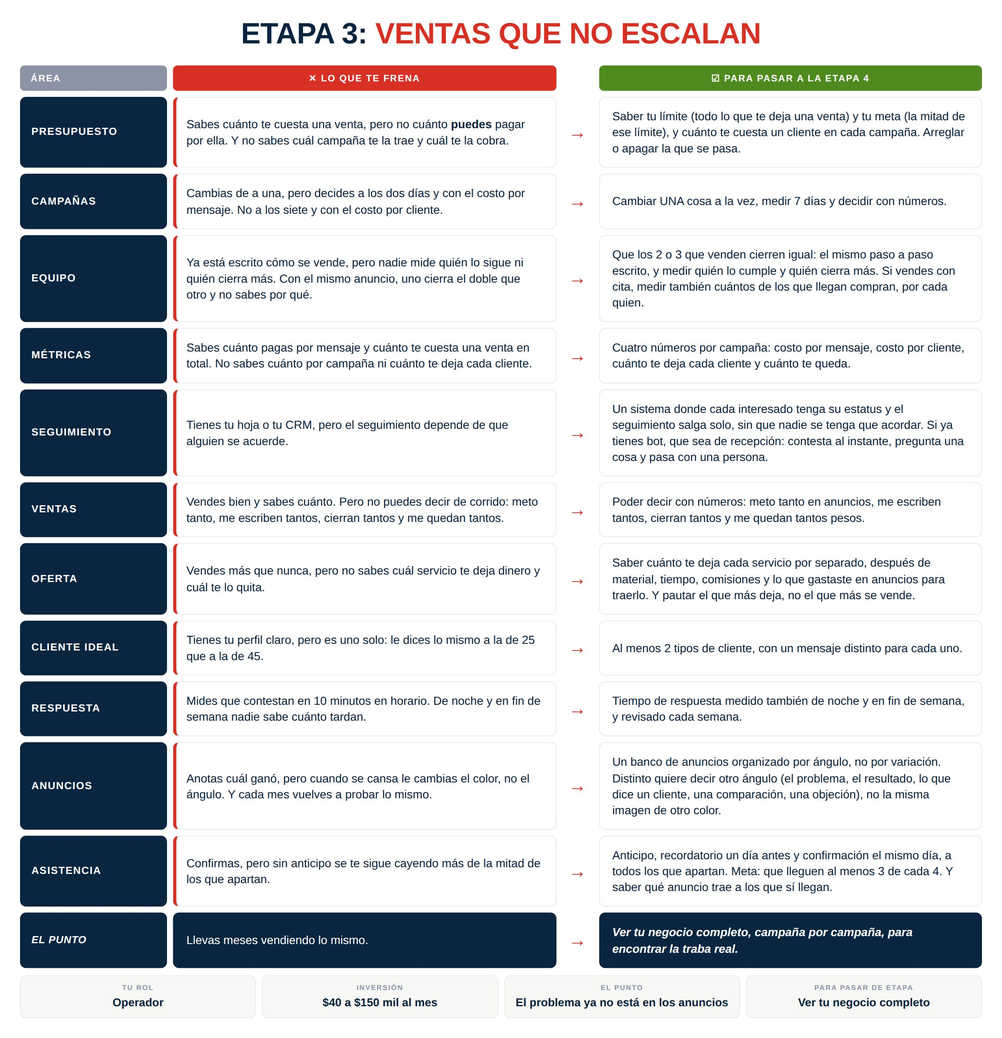
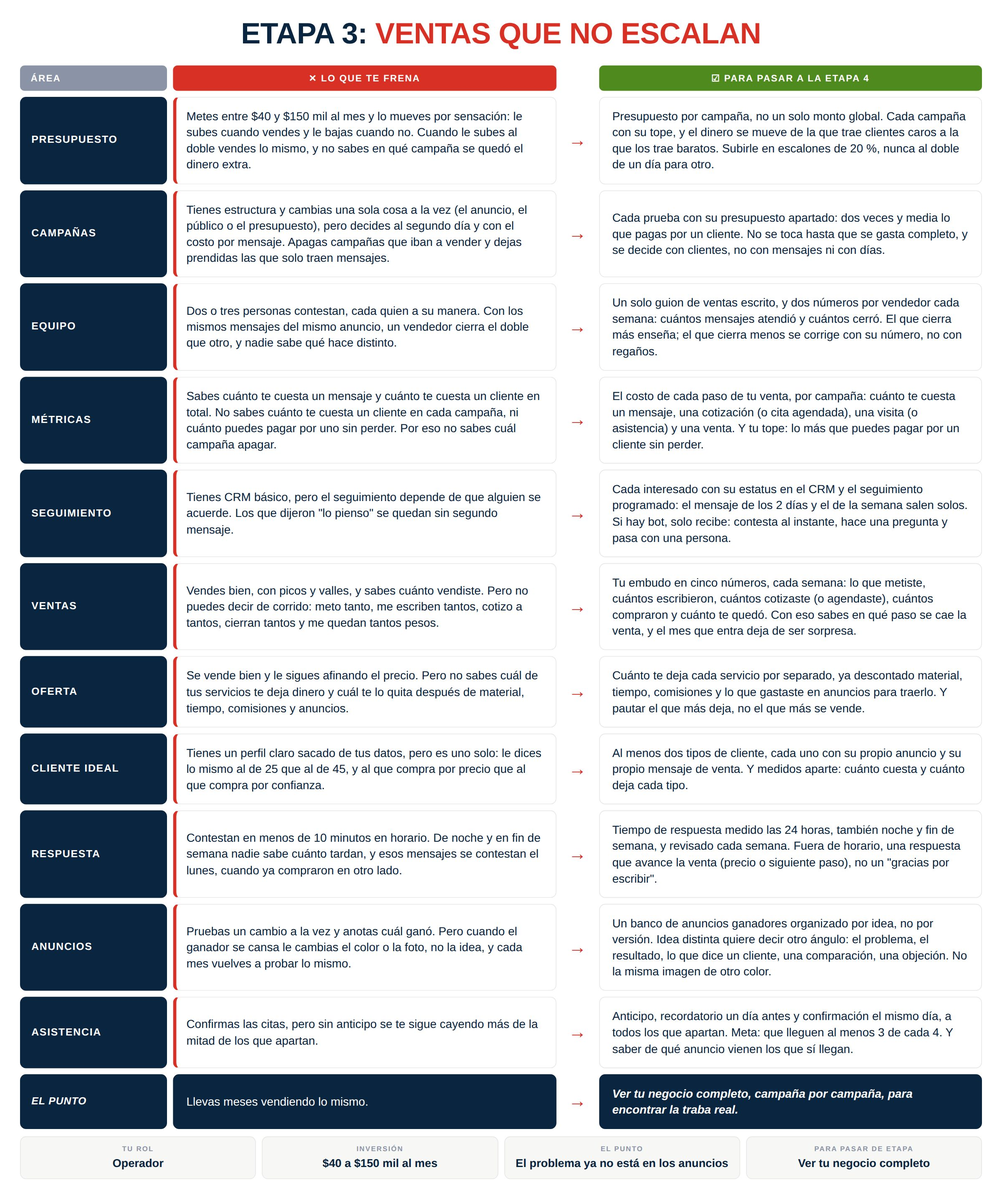
Build 7.5: tabla E3 reescrita, checklist E3, guia CAC en Metricas, tabla E4, lightbox escritorio

diff --git a/index.html b/index.html
@@ -602,6 +602,7 @@ body.has-bar{padding-bottom:74px}
 .mapa-scroll img.big{width:220%}
 .mapa-tip{margin:0;padding:52px 60px 6px 12px;color:#fff;font-size:13px;font-weight:700}
 .mapa-scroll{padding-top:0!important}
+@media (min-width:900px){.mapa-scroll{cursor:grab}.mapa-scroll.drag{cursor:grabbing}.mapa-scroll img{width:auto;max-width:100%;max-height:calc(100vh - 56px);margin:0 auto;cursor:zoom-in}.mapa-scroll img.big{width:100%;max-width:2400px;max-height:none;cursor:zoom-out}}
 #engrane-root .u-ofhook{margin:4px 0 0;font-size:15px;font-style:italic;color:var(--navy);line-height:1.45}
 #engrane-root .it .ej{margin-top:6px;font-size:13px;line-height:1.45;color:#5b6675}
 #engrane-root .it .ej b{color:var(--navy)}
@@ -909,7 +910,7 @@ const TABLE = [
 /* ---------- Tabla Hormozi 11 áreas · Etapa 3 (frena / para pasar) ---------- */
 const HZ = [
  ["Presupuesto","Inviertes sin saber qué porcentaje regresa como cliente.","Conocer tu costo por cliente real, no por lead."],
- ["Campañas","Cambias cosas sin un proceso claro de prueba.","Cambiar UNA variable, medir 7 días, decidir con datos."],
+ ["Campañas","Cambias cosas sin un proceso claro de prueba.","Cada prueba con su presupuesto apartado; se decide con clientes, no con días."],
  ["Equipo","Cada quien vende a su manera. Depende de quién conteste.","Que los 2-3 cierren igual: un guion que todos siguen y se mide quién lo cumple."],
  ["Métricas","Sabes cuánto pagas por mensaje pero no cuánto te cuesta cada paciente que paga.","4 números: costo por mensaje, por paciente, valor por paciente, margen."],
  ["Automatización","Ya tienes un CRM básico, pero el seguimiento es manual: depende de que alguien se acuerde.","Un CRM que trabaje solo: estatus por lead y seguimiento automático que nadie tenga que empujar a mano."],
@@ -1766,11 +1767,11 @@ const TEETH=[
   why:'Una clínica real: el mensaje le costaba <b>$15</b> y se veía barato. El cliente que COMPRÓ le costó <b>$711, 47 veces más</b>. Si solo ves el costo por mensaje, crees que vas bien mientras pierdes dinero entre cada paso.',
   hoy:'Divide lo que invertiste el mes pasado entre los clientes nuevos que SÍ pagaron. Ese es tu CAC real. Si no tienes ese número, ahí está tu primer problema.',
   why34:'Tu CAC global (lo que invertiste entre los clientes que te pagaron) seguro ya lo conoces, o lo sacas en 2 minutos. El problema: <b>ese número ya no te sirve para decidir</b>. Te dice si ganas o pierdes en total, pero no qué apagar ni qué escalar. El anuncio con el mensaje más barato puede estar dándote los clientes más caros. Abajo lo ves con números. Viendo solo el global, le metes dinero al equivocado sin enterarte. El juego en tu etapa es CAC <b>por campaña → por conjunto (los grupos de anuncios dentro de cada campaña) → por anuncio</b>.',
-  hoy34:'Ponle una clave a cada anuncio (AZUL, ROJO…) en el mensaje que se abre en WhatsApp cuando lo pican. Tu equipo apunta por chat: fecha · clave · ¿compró? El día 7 divides, y sabes qué anuncio te trae clientes de verdad.',
-  pasos34:['Cuando alguien pica tu anuncio, se le abre WhatsApp con un <b>mensaje ya escrito</b> (el clásico "Hola, me interesa…"). Ese mensaje lo decides TÚ al crear el anuncio. Ponle una <b>clave distinta a cada anuncio</b>:<div class="wa-mock"><div class="wa-b">Hola, me interesa 😊 <mark>(AZUL)</mark></div><div class="wa-b">Hola, me interesa 😊 <mark>(ROJO)</mark></div><div class="wa-cap">Así te llega el chat: la clave viaja sola, sin que el cliente haga nada.</div></div><div class="tell-box">¿Alguien más te maneja las campañas? Mándale esto tal cual: <i>"Cámbiame el mensaje de bienvenida de cada anuncio para que traiga una clave distinta entre paréntesis: (AZUL), (ROJO)…"</i></div>','Tu equipo apunta 3 cosas de cada chat que llegue, en papel o en Excel, da igual:<table class="reg-mock"><tr><th>Fecha</th><th>Clave</th><th>¿Compró?</th></tr><tr><td>3 jul</td><td>AZUL</td><td>❌</td></tr><tr><td>3 jul</td><td>ROJO</td><td>✅</td></tr><tr><td>4 jul</td><td>ROJO</td><td>✅</td></tr></table>','A los 7 días, haz una cuenta por cada clave: <b>lo que gastaste en ese anuncio ÷ sus compradores</b>. Ejemplo: gastaste $1,500 en ROJO y te compraron 5 → cada cliente de ROJO te costó <b>$300</b>. Ese es tu CAC por anuncio.'],
+  hoy34:'Ponle una clave a cada anuncio (AZUL, ROJO…) en el mensaje que se abre en WhatsApp cuando lo pican. Tu equipo apunta por chat: fecha · clave · ¿compró? Cuando cada anuncio haya gastado lo de una prueba completa (dos veces y media lo que puedes pagar por un cliente), divides, y sabes qué anuncio te trae clientes de verdad.',
+  pasos34:['Cuando alguien pica tu anuncio, se le abre WhatsApp con un <b>mensaje ya escrito</b> (el clásico "Hola, me interesa…"). Ese mensaje lo decides TÚ al crear el anuncio. Ponle una <b>clave distinta a cada anuncio</b>:<div class="wa-mock"><div class="wa-b">Hola, me interesa 😊 <mark>(AZUL)</mark></div><div class="wa-b">Hola, me interesa 😊 <mark>(ROJO)</mark></div><div class="wa-cap">Así te llega el chat: la clave viaja sola, sin que el cliente haga nada.</div></div><div class="tell-box">¿Alguien más te maneja las campañas? Mándale esto tal cual: <i>"Cámbiame el mensaje de bienvenida de cada anuncio para que traiga una clave distinta entre paréntesis: (AZUL), (ROJO)…"</i></div>','Tu equipo apunta 3 cosas de cada chat que llegue, en papel o en Excel, da igual:<table class="reg-mock"><tr><th>Fecha</th><th>Clave</th><th>¿Compró?</th></tr><tr><td>3 jul</td><td>AZUL</td><td>❌</td></tr><tr><td>3 jul</td><td>ROJO</td><td>✅</td></tr><tr><td>4 jul</td><td>ROJO</td><td>✅</td></tr></table>','Cuando cada anuncio haya gastado lo de una prueba completa (dos veces y media lo que puedes pagar por un cliente), haz una cuenta por cada clave: <b>lo que gastaste en ese anuncio ÷ sus compradores</b>. Ejemplo: gastaste $1,500 en ROJO y te compraron 5 → cada cliente de ROJO te costó <b>$300</b>. Ese es tu CAC por anuncio.'],
   reto34:'Haz la cuenta con dos anuncios y compáralos. Te apuesto que hay una diferencia que no esperabas.',
-  hoyPasos:['Suma lo que gastaste en anuncios el mes pasado.','Cuenta los clientes nuevos que SÍ pagaron ese mes. No mensajes, no citas: los que pagaron.','Divide. Ese es tu costo por cliente de hoy.','Compáralo con lo que te deja un cliente después de costos. Si el costo por cliente se come más de la mitad de lo que te deja, ahí está tu freno, no en los anuncios.','Para la semana que entra: ponle una clave a cada anuncio en el mensaje que abre WhatsApp (AZUL, ROJO). Tu equipo apunta fecha, clave y si compró. El día 7 divides por anuncio.'],
-  cl:{def:'CAC significa <b>Costo de Adquisición de Cliente</b>: cuánto dinero te cuesta conseguir UNA paciente que paga. No un mensaje, no una cita agendada, una paciente que llegó y pagó.',why:'Una clínica real: el mensaje le costaba <b>$15</b> y se veía barato. La paciente que PAGÓ le costó <b>$711, 47 veces más</b>. Si solo ves el costo por mensaje, crees que vas bien mientras pierdes dinero entre cada paso.',hoy:'Divide lo que invertiste el mes pasado entre las pacientes nuevas que SÍ pagaron. Ese es tu CAC real. Si no tienes ese número, ahí está tu primer problema.',hoyPasos:['Suma lo que gastaste en anuncios el mes pasado.','Cuenta las pacientes nuevas que SÍ pagaron ese mes. No mensajes, no citas agendadas: las que llegaron y pagaron.','Divide. Ese es tu costo por paciente de hoy.','Compáralo con lo que te deja una paciente después de insumos y cabina. Si el costo por paciente se come más de la mitad de lo que te deja, ahí está tu freno, no en los anuncios.','Para la semana que entra: ponle una clave a cada anuncio en el mensaje que abre WhatsApp (AZUL, ROJO). Tu recepción apunta fecha, clave y si agendó y llegó. El día 7 divides por anuncio.'],ofWin:'Saber, campaña por campaña, cuáles te traen pacientes a un costo que te deja dinero y cuáles te lo cobran. Con eso apagas la que se pasa y le subes a la que aguanta, con números, no con feeling. No te prometo un número: depende de tu margen y de tu zona.'},ofName:'Cuánto puedes pagar por un cliente (tu CAC máximo)',ofPrice:50,
+  hoyPasos:['Suma lo que gastaste en anuncios el mes pasado.','Cuenta los clientes nuevos que SÍ pagaron ese mes. No mensajes, no citas: los que pagaron.','Divide. Ese es tu costo por cliente de hoy.','Compáralo con lo que te deja un cliente después de costos. Si el costo por cliente se come más de la mitad de lo que te deja, ahí está tu freno, no en los anuncios.','Para la semana que entra: ponle una clave a cada anuncio en el mensaje que abre WhatsApp (AZUL, ROJO). Tu equipo apunta fecha, clave y si compró. Cuando cada anuncio haya gastado lo de una prueba completa (dos veces y media lo que puedes pagar por un cliente), divides por anuncio.'],
+  cl:{def:'CAC significa <b>Costo de Adquisición de Cliente</b>: cuánto dinero te cuesta conseguir UNA paciente que paga. No un mensaje, no una cita agendada, una paciente que llegó y pagó.',why:'Una clínica real: el mensaje le costaba <b>$15</b> y se veía barato. La paciente que PAGÓ le costó <b>$711, 47 veces más</b>. Si solo ves el costo por mensaje, crees que vas bien mientras pierdes dinero entre cada paso.',hoy:'Divide lo que invertiste el mes pasado entre las pacientes nuevas que SÍ pagaron. Ese es tu CAC real. Si no tienes ese número, ahí está tu primer problema.',hoyPasos:['Suma lo que gastaste en anuncios el mes pasado.','Cuenta las pacientes nuevas que SÍ pagaron ese mes. No mensajes, no citas agendadas: las que llegaron y pagaron.','Divide. Ese es tu costo por paciente de hoy.','Compáralo con lo que te deja una paciente después de insumos y cabina. Si el costo por paciente se come más de la mitad de lo que te deja, ahí está tu freno, no en los anuncios.','Para la semana que entra: ponle una clave a cada anuncio en el mensaje que abre WhatsApp (AZUL, ROJO). Tu recepción apunta fecha, clave y si agendó y llegó. Cuando cada anuncio haya gastado lo de una prueba completa (dos veces y media lo que puedes pagar por una paciente nueva), divides por anuncio.'],ofWin:'Saber, campaña por campaña, cuáles te traen pacientes a un costo que te deja dinero y cuáles te lo cobran. Con eso apagas la que se pasa y le subes a la que aguanta, con números, no con feeling. No te prometo un número: depende de tu margen y de tu zona.'},ofName:'Cuánto puedes pagar por un cliente (tu CAC máximo)',ofPrice:50,
   ofHook:'Subirle al presupuesto sin saber cuánto puedes pagar por cliente es apostar. Este número te dice cuándo subirle y cuándo apagar.',
   ofWin:'Saber, campaña por campaña, cuáles te traen clientes a un costo que te deja dinero y cuáles te lo cobran. Con eso apagas la que se pasa y le subes a la que aguanta, con números, no con feeling. No te prometo un número: depende de tu margen y de tu mercado.',
   ofFor:'Es para ti si ya inviertes fuerte y llevas meses vendiendo lo mismo. No es para ti si todavía no sabes cuánto te cuesta una venta en total.',
@@ -2115,18 +2116,19 @@ const CHK2=[
  {area:'Asistencia',text:'Recordatorio un día antes y confirmación el mismo día, a todos los que apartan.',ej:'Ayer: "Te espero mañana a las 4, ¿confirmas?". Hoy en la mañana: "Nos vemos hoy a las 4". A todos, no solo a los que te acuerdas.',na:true,cl:{text:'Recordatorio un día antes y confirmación el mismo día, a todas las que agendan.',ej:'Ayer: "Te espero mañana a las 4, ¿confirmas?". Hoy en la mañana: "Nos vemos hoy a las 4". A todas, no solo a las que te acuerdas.'}}
 ];
 const CHK3=[
- {area:'Presupuesto',text:'Saber tu límite (todo lo que te deja una venta) y tu meta (la mitad de ese límite), y cuánto te cuesta un cliente en cada campaña. Arreglar o apagar la que se pasa.',ej:'Un cliente te deja $2,000 limpios: ése es tu límite, arriba de ahí pierdes. Tu meta es la mitad, $1,000. La campaña A te trae clientes a $450 y la B a $1,400: la A va de sobra, la B ya pasó tu meta y se acerca al límite. La B se arregla o se apaga, aunque traiga muchos mensajes.',cl:{text:'Saber tu límite (todo lo que te deja un tratamiento) y tu meta (la mitad de ese límite), y cuánto te cuesta un paciente nuevo en cada campaña. Arreglar o apagar la que se pasa.',ej:'Un tratamiento te deja $2,000 limpios: ése es tu límite, arriba de ahí pierdes. Tu meta es la mitad, $1,000. La campaña A te trae pacientes a $450 y la B a $1,400: la A va de sobra, la B ya pasó tu meta y se acerca al límite. La B se arregla o se apaga, aunque traiga muchos mensajes.'}},
- {area:'Campañas',text:'Cambiar UNA cosa a la vez, medir 7 días y decidir con números.',ej:'Esta semana solo cambias el presupuesto de una campaña. Nada más. El día 7 comparas clientes y costo por cliente contra la semana anterior. Si cambias tres cosas, no sabes cuál movió el resultado.',cl:{ej:'Esta semana solo cambias el presupuesto de una campaña. Nada más. El día 7 comparas pacientes nuevos y costo por paciente contra la semana anterior. Si cambias tres cosas, no sabes cuál movió el resultado.'}},
- {area:'Equipo',text:'Que los 2 o 3 que venden cierren igual: el mismo paso a paso escrito, y medir quién lo cumple y quién cierra más. Si vendes con cita, medir también cuántos de los que llegan compran, por cada quien.',ej:'De 50 interesados, Karla cerró 16 y Luis 6 con el mismo anuncio. Lees 5 chats de cada uno: Karla ofrece día y hora, Luis solo contesta la pregunta. Esa diferencia se vuelve regla para todos ese mismo día.',cl:{text:'Que las 2 o 3 que agendan cierren igual: el mismo paso a paso escrito, y medir quién lo cumple y quién agenda más. Y medir también cuántas de las que llegan a valoración se quedan, por cada quien.',ej:'De 50 interesadas, Karla agendó 16 y Luis 6 con el mismo anuncio. Lees 5 chats de cada uno: Karla ofrece día y hora, Luis solo contesta la pregunta. Esa diferencia se vuelve regla para todos ese mismo día.'}},
- {area:'Métricas',text:'Cuatro números por campaña: costo por mensaje, costo por cliente, cuánto te deja cada cliente y cuánto te queda.',ej:'Campaña A: mensaje $20, cliente $450, te deja $2,000, te quedan $1,550. Campaña B: mensaje $12, cliente $1,100, te deja $2,000, te quedan $900. La de mensajes baratos es la que menos te deja.',cl:{text:'Cuatro números por campaña: costo por mensaje, costo por paciente nuevo, cuánto te deja cada paciente y cuánto te queda.',ej:'Campaña A: mensaje $20, paciente $450, te deja $2,000, te quedan $1,550. Campaña B: mensaje $12, paciente $1,100, te deja $2,000, te quedan $900. La de mensajes baratos es la que menos te deja.'}},
- {area:'Seguimiento',text:'Un sistema donde cada interesado tenga su estatus y el seguimiento salga solo, sin que nadie se tenga que acordar. Si ya tienes bot, que sea de recepción: contesta al instante, pregunta una cosa y pasa con una persona.',ej:'El que cotizó y no contestó recibe un mensaje al día siguiente, otro a los 3 días y otro a los 7, sin que tu equipo lo mande a mano. Y el bot no intenta vender solo: saluda, pregunta qué necesita y avisa en cuánto lo atienden.',cl:{text:'Un sistema donde cada interesada tenga su estatus y el seguimiento salga solo, sin que recepción se tenga que acordar. Si ya tienes bot, que sea de recepción: contesta al instante, pregunta una cosa y pasa con una persona.',ej:'La que cotizó y no contestó recibe un mensaje al día siguiente, otro a los 3 días y otro a los 7, sin que tu recepción lo mande a mano. Y el bot no intenta vender solo: saluda, pregunta qué le interesa y avisa en cuánto la atienden.'}},
- {area:'Ventas',text:'Poder decir con números: meto tanto en anuncios, me escriben tantos, cierran tantos y me quedan tantos pesos.',ej:'"Meto $60 mil, me escriben 400, cierran 40, me quedan $80 mil." Si puedes decir esa frase con tus números del mes pasado, ya no estás adivinando.',cl:{text:'Poder decir con números: meto tanto en anuncios, me escriben tantas, agendan tantas, llegan tantas y me quedan tantos pesos.',ej:'\"Meto $60 mil, me escriben 400, agendan 60, llegan 40, me quedan $80 mil.\" Si puedes decir esa frase con tus números del mes pasado, ya no estás adivinando.'}},
- {area:'Oferta',text:'Saber cuánto te deja cada servicio por separado, después de material, tiempo, comisiones y lo que gastaste en anuncios para traerlo. Y pautar el que más deja, no el que más se vende.',ej:'Tu servicio más vendido te deja $400 y el otro te deja $1,800. El presupuesto se está yendo al de $400 porque "es el que jala". Lo mueves al de $1,800: el mismo trabajo, el doble de utilidad.',cl:{text:'Saber cuánto te deja cada tratamiento por separado, después de insumos, tiempo de cabina, comisiones y lo que gastaste en anuncios para traerlo. Y pautar el que más deja, no el que más se agenda.',ej:'Tu tratamiento más pedido te deja $400 y el otro te deja $1,800. El presupuesto se está yendo al de $400 porque \"es el que jala\". Lo mueves al de $1,800: la misma cabina, el doble de utilidad.'}},
- {area:'Cliente ideal',text:'Al menos 2 tipos de cliente, con un mensaje distinto para cada uno.',ej:'A la mujer de 35 a 50 le hablas de tiempo y resultado. A la de 25 a 34 le hablas de precio y de pagos. Un anuncio para cada una, no uno para las dos.',cl:{text:'Al menos 2 tipos de paciente, con un mensaje distinto para cada una.',ej:'A la mujer de 35 a 50 le hablas de tiempo y resultado. A la de 25 a 34 le hablas de precio y de pagos. Un anuncio para cada una, no uno para las dos.'}},
- {area:'Respuesta',text:'Tiempo de respuesta medido también de noche y en fin de semana, y revisado cada semana.',ej:'Sacas tus últimos 20 interesados con hora de llegada y hora de respuesta. Los de horario: 8 minutos. Los de noche y fin de semana: 14 horas. Ese segundo número es el que te está costando.',cl:{ej:'Sacas tus últimas 20 interesadas con hora de llegada y hora de respuesta. Las de horario: 8 minutos. Las de noche y fin de semana: 14 horas. Ese segundo número es el que te está costando citas.'}},
- {area:'Anuncios',text:'Un banco de anuncios organizado por ángulo, no por variación. Distinto quiere decir otro ángulo (el problema, el resultado, lo que dice un cliente, una comparación, una objeción), no la misma imagen de otro color.',ej:'Una carpeta con tus mejores anuncios, cada uno con su costo por cliente y con el ángulo que usa. Cuando uno se cansa no le cambias el color: sacas el siguiente ángulo, que le habla a alguien que antes no te pelaba.',cl:{text:'Un banco de anuncios organizado por ángulo, no por variación. Distinto quiere decir otro ángulo (el problema, el resultado, lo que dice una paciente, una comparación, una objeción), no la misma imagen de otro color.',ej:'Una carpeta con tus mejores anuncios, cada uno con su costo por paciente nuevo y con el ángulo que usa. Cuando uno se cansa no le cambias el color: sacas el siguiente ángulo, que le habla a alguien que antes no te pelaba.'}},
- {area:'Asistencia',text:'Anticipo, recordatorio un día antes y confirmación el mismo día, a todos los que apartan. Meta: que lleguen al menos 3 de cada 4. Y saber qué anuncio trae a los que sí llegan.',ej:'De 20 que apartan con anticipo, llegan 16. Sin anticipo, llegaban 9. Y al cruzarlo con el anuncio: el de la promoción fuerte agenda mucho y llega poco; el que explica bien agenda menos y llega casi todo. A ese segundo le subes el presupuesto.',cl:{text:'Anticipo, recordatorio un día antes y confirmación el mismo día, a todas las que agendan. Meta: que lleguen al menos 3 de cada 4. Y saber qué anuncio trae a las que sí llegan.',ej:'De 20 que agendan con anticipo, llegan 16. Sin anticipo, llegaban 9. Y al cruzarlo con el anuncio: el de la promoción fuerte agenda mucho y llega poco; el que explica bien agenda menos y llega casi todo. A ese segundo le subes el presupuesto.'},na:true}
+ {area:"Presupuesto",text:"Presupuesto por campaña, no un solo monto global. Cada campaña con su tope, y el dinero se mueve de la que trae clientes caros a la que los trae baratos. Subirle en escalones de 20 %, nunca al doble de un día para otro.",ej:"Metes $60 mil al mes. Hoy es un solo número: el mes que vendiste bien le subiste a $90 mil y vendiste lo mismo. Con tope por campaña ves que la A traía clientes a $450 y la B a $1,400: el dinero extra se fue a la B. Le subes 20 % a la A, le bajas a la B, y con el mismo gasto salen más clientes.",cl:{text:"Presupuesto por campaña, no un solo monto global. Cada campaña con su tope, y el dinero se mueve de la que trae pacientes caras a la que las trae baratas. Subirle en escalones de 20 %, nunca al doble de un día para otro.",ej:"Metes $60 mil al mes. Hoy es un solo número: el mes que agendaste bien le subiste a $90 mil y agendaste lo mismo. Con tope por campaña ves que la A traía pacientes a $450 y la B a $1,400: el dinero extra se fue a la B. Le subes 20 % a la A, le bajas a la B, y con el mismo gasto llegan más pacientes."}},
+ {area:"Campañas",text:"Cada prueba con su presupuesto apartado: dos veces y media lo que pagas por un cliente. No se toca hasta que se gasta completo, y se decide con clientes, no con mensajes ni con días.",ej:"Un cliente te cuesta $1,000. La prueba de un anuncio nuevo son $2,500: ni un cambio hasta que los gaste. Si al gastarlos trajo 3 clientes o más, se queda y se le sube. Si trajo mensajes baratos y cero clientes, se apaga aunque el costo por mensaje se viera bonito.",cl:{text:"Cada prueba con su presupuesto apartado: dos veces y media lo que pagas por una paciente nueva. No se toca hasta que se gasta completo, y se decide con pacientes que llegaron, no con mensajes ni con días.",ej:"Una paciente nueva te cuesta $1,000. La prueba de un anuncio nuevo son $2,500: ni un cambio hasta que los gaste. Si al gastarlos trajo 3 pacientes o más, se queda y se le sube. Si trajo mensajes baratos y cero pacientes, se apaga aunque el costo por mensaje se viera bonito."}},
+ {area:"Equipo",text:"Un solo guion de ventas escrito, y dos números por vendedor cada semana: cuántos mensajes atendió y cuántos cerró. El que cierra más enseña; el que cierra menos se corrige con su número, no con regaños.",ej:"De 50 interesados, Karla cerró 16 y Luis 6 con el mismo anuncio. Lees 5 chats de cada uno: Karla ofrece día y hora, Luis solo contesta la pregunta. Esa diferencia se vuelve regla para todos ese mismo día.",cl:{text:"Un solo guion escrito para recepción, y dos números por persona cada semana: cuántos mensajes atendió y cuántas citas agendó que sí llegaron. La que agenda más enseña; la que agenda menos se corrige con su número, no con regaños.",ej:"De 50 interesadas, Karla agendó 16 y Luis 6 con el mismo anuncio. Lees 5 chats de cada uno: Karla ofrece día y hora, Luis solo contesta la pregunta. Esa diferencia se vuelve regla para todos ese mismo día."}},
+ {area:"Métricas",text:"El costo de cada paso de tu venta, por campaña: cuánto te cuesta un mensaje, una cotización (o cita agendada), una visita (o asistencia) y una venta. Y tu tope: lo más que puedes pagar por un cliente sin perder.",ej:"Un cliente te deja $2,000 limpios: ése es tu tope, arriba de ahí pierdes. Campaña A: mensaje $20, cotización $60, cliente $450. Campaña B: mensaje $12, cotización $40, cliente $1,400. La de mensajes baratos es la que se come tu tope. Y ya sabes en qué paso: en B cotizan igual, pero no cierran.",cl:{text:"El costo de cada paso, por campaña: cuánto te cuesta un mensaje, una cita agendada, una paciente que llega y una que paga. Y tu tope: lo más que puedes pagar por una paciente nueva sin perder.",ej:"Un tratamiento te deja $2,000 limpios: ése es tu tope, arriba de ahí pierdes. Campaña A: mensaje $20, cita $60, paciente que paga $450. Campaña B: mensaje $12, cita $40, paciente que paga $1,400. La de mensajes baratos es la que se come tu tope. Y ya sabes en qué paso: en B agendan igual, pero no llegan."}},
+ {area:"Seguimiento",text:"Cada interesado con su estatus en el CRM y el seguimiento programado: el mensaje de los 2 días y el de la semana salen solos. Si hay bot, solo recibe: contesta al instante, hace una pregunta y pasa con una persona.",ej:"El que cotizó y no contestó recibe un mensaje a los 2 días y otro a la semana, sin que tu equipo lo mande a mano. Y el bot no intenta vender solo: saluda, pregunta qué necesita y avisa en cuánto lo atienden.",cl:{text:"Cada interesada con su estatus en el CRM y el seguimiento programado: el mensaje de los 2 días y el de la semana salen solos. Si hay bot, solo recibe: contesta al instante, hace una pregunta y pasa con recepción.",ej:"La que pidió precio y no contestó recibe un mensaje a los 2 días y otro a la semana, sin que recepción lo mande a mano. Y el bot no intenta vender solo: saluda, pregunta qué le interesa y avisa en cuánto la atienden."}},
+ {area:"Ventas",text:"Tu embudo en cinco números, cada semana: lo que metiste, cuántos escribieron, cuántos cotizaste (o agendaste), cuántos compraron y cuánto te quedó. Con eso sabes en qué paso se cae la venta, y el mes que entra deja de ser sorpresa.",ej:"\"Meto $60 mil, me escriben 400, cotizo a 120, cierran 40, me quedan $80 mil.\" Si puedes decir esa frase con tus números de la semana pasada, ya sabes dónde se caen: de 400 a 120 es el primer brinco, de 120 a 40 el segundo.",cl:{text:"Tu embudo en cinco números, cada semana: lo que metiste, cuántas escribieron, cuántas agendaron, cuántas llegaron y cuánto te quedó. Con eso sabes en qué paso se cae la venta, y el mes que entra deja de ser sorpresa.",ej:"\"Meto $60 mil, me escriben 400, agendan 60, llegan 40, me quedan $80 mil.\" Si puedes decir esa frase con tus números de la semana pasada, ya sabes dónde se caen: de 400 a 60 es el primer brinco, de 60 a 40 el segundo."}},
+ {area:"Oferta",text:"Cuánto te deja cada servicio por separado, ya descontado material, tiempo, comisiones y lo que gastaste en anuncios para traerlo. Y pautar el que más deja, no el que más se vende.",ej:"Tu servicio más vendido te deja $400 y el otro te deja $1,800. El presupuesto se está yendo al de $400 porque \"es el que jala\". Lo mueves al de $1,800: el mismo trabajo, el doble de utilidad.",cl:{text:"Cuánto te deja cada tratamiento por separado, ya descontado insumos, tiempo de cabina, comisiones y lo que gastaste en anuncios para traerlo. Y pautar el que más deja, no el que más se agenda.",ej:"Tu tratamiento más pedido te deja $400 y el otro te deja $1,800. El presupuesto se está yendo al de $400 porque \"es el que jala\". Lo mueves al de $1,800: la misma cabina, el doble de utilidad."}},
+ {area:"Cliente ideal",text:"Al menos dos tipos de cliente, cada uno con su propio anuncio y su propio mensaje de venta. Y medidos aparte: cuánto cuesta y cuánto deja cada tipo.",ej:"A la mujer de 35 a 50 le hablas de tiempo y resultado. A la de 25 a 34 le hablas de precio y de pagos. Un anuncio para cada una, no uno para las dos. Y al mes sabes cuál de las dos te cuesta menos y te deja más.",cl:{text:"Al menos dos tipos de paciente, cada una con su propio anuncio y su propio mensaje. Y medidas aparte: cuánto cuesta y cuánto deja cada tipo.",ej:"A la mujer de 35 a 50 le hablas de tiempo y resultado. A la de 25 a 34 le hablas de precio y de pagos. Un anuncio para cada una, no uno para las dos. Y al mes sabes cuál de las dos te cuesta menos y te deja más."}},
+ {area:"Respuesta",text:"Tiempo de respuesta medido las 24 horas, también noche y fin de semana, y revisado cada semana. Fuera de horario, una respuesta que avance la venta (precio o siguiente paso), no un \"gracias por escribir\".",ej:"Sacas tus últimos 20 interesados con hora de llegada y hora de respuesta. Los de horario: 8 minutos. Los de noche y fin de semana: 14 horas. Ese segundo número es el que te está costando.",cl:{text:"Tiempo de respuesta medido las 24 horas, también noche y fin de semana, y revisado cada semana. Fuera de horario, una respuesta que avance la cita (precio o siguiente paso), no un \"gracias por escribir\".",ej:"Sacas tus últimas 20 interesadas con hora de llegada y hora de respuesta. Las de horario: 8 minutos. Las de noche y fin de semana: 14 horas. Ese segundo número es el que te está costando citas."}},
+ {area:"Anuncios",text:"Un banco de anuncios ganadores organizado por idea, no por versión. Idea distinta quiere decir otro ángulo: el problema, el resultado, lo que dice un cliente, una comparación, una objeción. No la misma imagen de otro color.",ej:"Una carpeta con tus mejores anuncios, cada uno con su costo por cliente y con el ángulo que usa. Cuando uno se cansa no le cambias el color: sacas el siguiente ángulo, que le habla a alguien que antes no te pelaba.",cl:{text:"Un banco de anuncios ganadores organizado por idea, no por versión. Idea distinta quiere decir otro ángulo: el problema, el resultado, lo que dice una paciente, una comparación, una objeción. No la misma imagen de otro color.",ej:"Una carpeta con tus mejores anuncios, cada uno con su costo por paciente nueva y con el ángulo que usa. Cuando uno se cansa no le cambias el color: sacas el siguiente ángulo, que le habla a alguien que antes no te pelaba."}},
+ {area:"Asistencia",text:"Anticipo, recordatorio un día antes y confirmación el mismo día, a todos los que apartan. Meta: que lleguen al menos 3 de cada 4. Y saber de qué anuncio vienen los que sí llegan.",ej:"De 20 que apartan con anticipo, llegan 16. Sin anticipo, llegaban 9. Y al cruzarlo con el anuncio: el de la promoción fuerte agenda mucho y llega poco; el que explica bien agenda menos y llega casi todo. A ese segundo le subes el presupuesto.",cl:{text:"Anticipo, recordatorio un día antes y confirmación el mismo día, a todas las que agendan. Meta: que lleguen al menos 3 de cada 4. Y saber de qué anuncio vienen las que sí llegan.",ej:"De 20 que agendan con anticipo, llegan 16. Sin anticipo, llegaban 9. Y al cruzarlo con el anuncio: el de la promoción fuerte agenda mucho y llega poco; el que explica bien agenda menos y llega casi todo. A ese segundo le subes el presupuesto."},na:true}
 ];
+
 const CHK_BY={1:CHK1,2:CHK2,3:CHK3};
 /* PRETICK[etapa][fila] = respuesta minima del quiz (0-3) que marca la fila como resuelta. null = nunca.
    Filas: Presupuesto, Campañas, Equipo, Metricas, Seguimiento, Ventas, Oferta, Cliente ideal, Respuesta, Anuncios.
@@ -2157,7 +2159,7 @@ function renderChecklist1(firstAny){
  let picked=pideLoad();
  const startIdx=[];
  if(firstAny && firstAny.l){
-  const START_AREA={'Cliente':'Cliente ideal','Venta mensual':'Ventas','CAC':'Presupuesto','Respuesta a leads':'Respuesta','Equipo de ventas':'Equipo','Oferta':'Oferta','Automatización':'Seguimiento','Generación de ads':'Anuncios','Creatividades':'Anuncios'};
+  const START_AREA={'Cliente':'Cliente ideal','Venta mensual':'Ventas','CAC':'Métricas','Respuesta a leads':'Respuesta','Equipo de ventas':'Equipo','Oferta':'Oferta','Automatización':'Seguimiento','Generación de ads':'Anuncios','Creatividades':'Anuncios'};
   const fl=firstAny.l.toLowerCase(), sa=START_AREA[firstAny.l];
   CHK().forEach((c,i)=>{ if(sa ? c.area===sa : fl.indexOf(c.area.toLowerCase().slice(0,5))>=0) startIdx.push(i); });
  }
@@ -2360,7 +2362,7 @@ function espPick(id){
 const GUIA_ETAPA={
  1:{nombre:function(){ return K()==='clinicas'?'tu paciente':'tu cliente'; }, filas:['Cliente ideal']},
  2:{nombre:function(){ return 'tu objetivo del mes'; }, filas:['Ventas']},
- 3:{nombre:function(){ return K()==='clinicas'?'cuánto te cuesta un paciente':'cuánto te cuesta un cliente'; }, filas:['Presupuesto','Métricas']}
+ 3:{nombre:function(){ return K()==='clinicas'?'cuánto te cuesta un paciente':'cuánto te cuesta un cliente'; }, filas:['Métricas']}
 };
 function espEcho(){
  const go=document.getElementById('espGo'); if(!go) return;
@@ -2687,7 +2689,7 @@ init();
 </script>
 <div id="mapaLb" class="mapa-lb" onclick="if(event.target===this)cerrarMapa()">
   <button class="mapa-x" onclick="cerrarMapa()">✕ Cerrar</button>
-  <p class="mapa-tip">Desliza con el dedo para recorrer la tabla. Un toque la hace chica o grande.</p>
+  <p class="mapa-tip" id="mapaTip">Desliza con el dedo para recorrer la tabla. Un toque la hace chica o grande.</p>
   <div class="mapa-scroll"><img id="mapaLbImg" alt="Tabla completa" onclick="this.classList.toggle('big')"></div>
 </div>
 <script>
@@ -2695,7 +2697,7 @@ function abrirMapa(a){
   try{ASV&&ASV.hit('mapa_zoom')}catch(e){}
   var lb=document.getElementById('mapaLb'), im=document.getElementById('mapaLbImg');
   if(!lb||!im) return true;
-  im.src=a.getAttribute('href'); im.classList.add('big');
+  im.src=a.getAttribute('href'); var desk=window.matchMedia('(min-width:900px)').matches; im.classList.toggle('big',!desk); var tip=document.getElementById('mapaTip'); if(tip) tip.textContent=desk?'Clic en la tabla para acercar. Arrastra con el mouse o usa la rueda para recorrerla. Esc para cerrar.':'Desliza con el dedo para recorrer la tabla. Un toque la hace chica o grande.'; if(!lb.__pan){ lb.__pan=1; var sc=lb.querySelector('.mapa-scroll'), dx=0,dy=0,sx=0,sy=0,down=false,moved=false; sc.addEventListener('mousedown',function(e){ if(e.button!==0) return; down=true; moved=false; sx=e.clientX; sy=e.clientY; dx=sc.scrollLeft; dy=sc.scrollTop; sc.classList.add('drag'); e.preventDefault(); }); window.addEventListener('mousemove',function(e){ if(!down) return; var mx=e.clientX-sx, my=e.clientY-sy; if(Math.abs(mx)+Math.abs(my)>4) moved=true; sc.scrollLeft=dx-mx; sc.scrollTop=dy-my; }); window.addEventListener('mouseup',function(){ if(!down) return; down=false; sc.classList.remove('drag'); }); im.addEventListener('click',function(e){ if(moved){ e.stopImmediatePropagation(); e.preventDefault(); moved=false; } },true); document.addEventListener('keydown',function(e){ if(e.key==='Escape' && lb.classList.contains('on')) cerrarMapa(); }); }
   lb.classList.add('on'); document.body.style.overflow='hidden';
   return false;
 }
